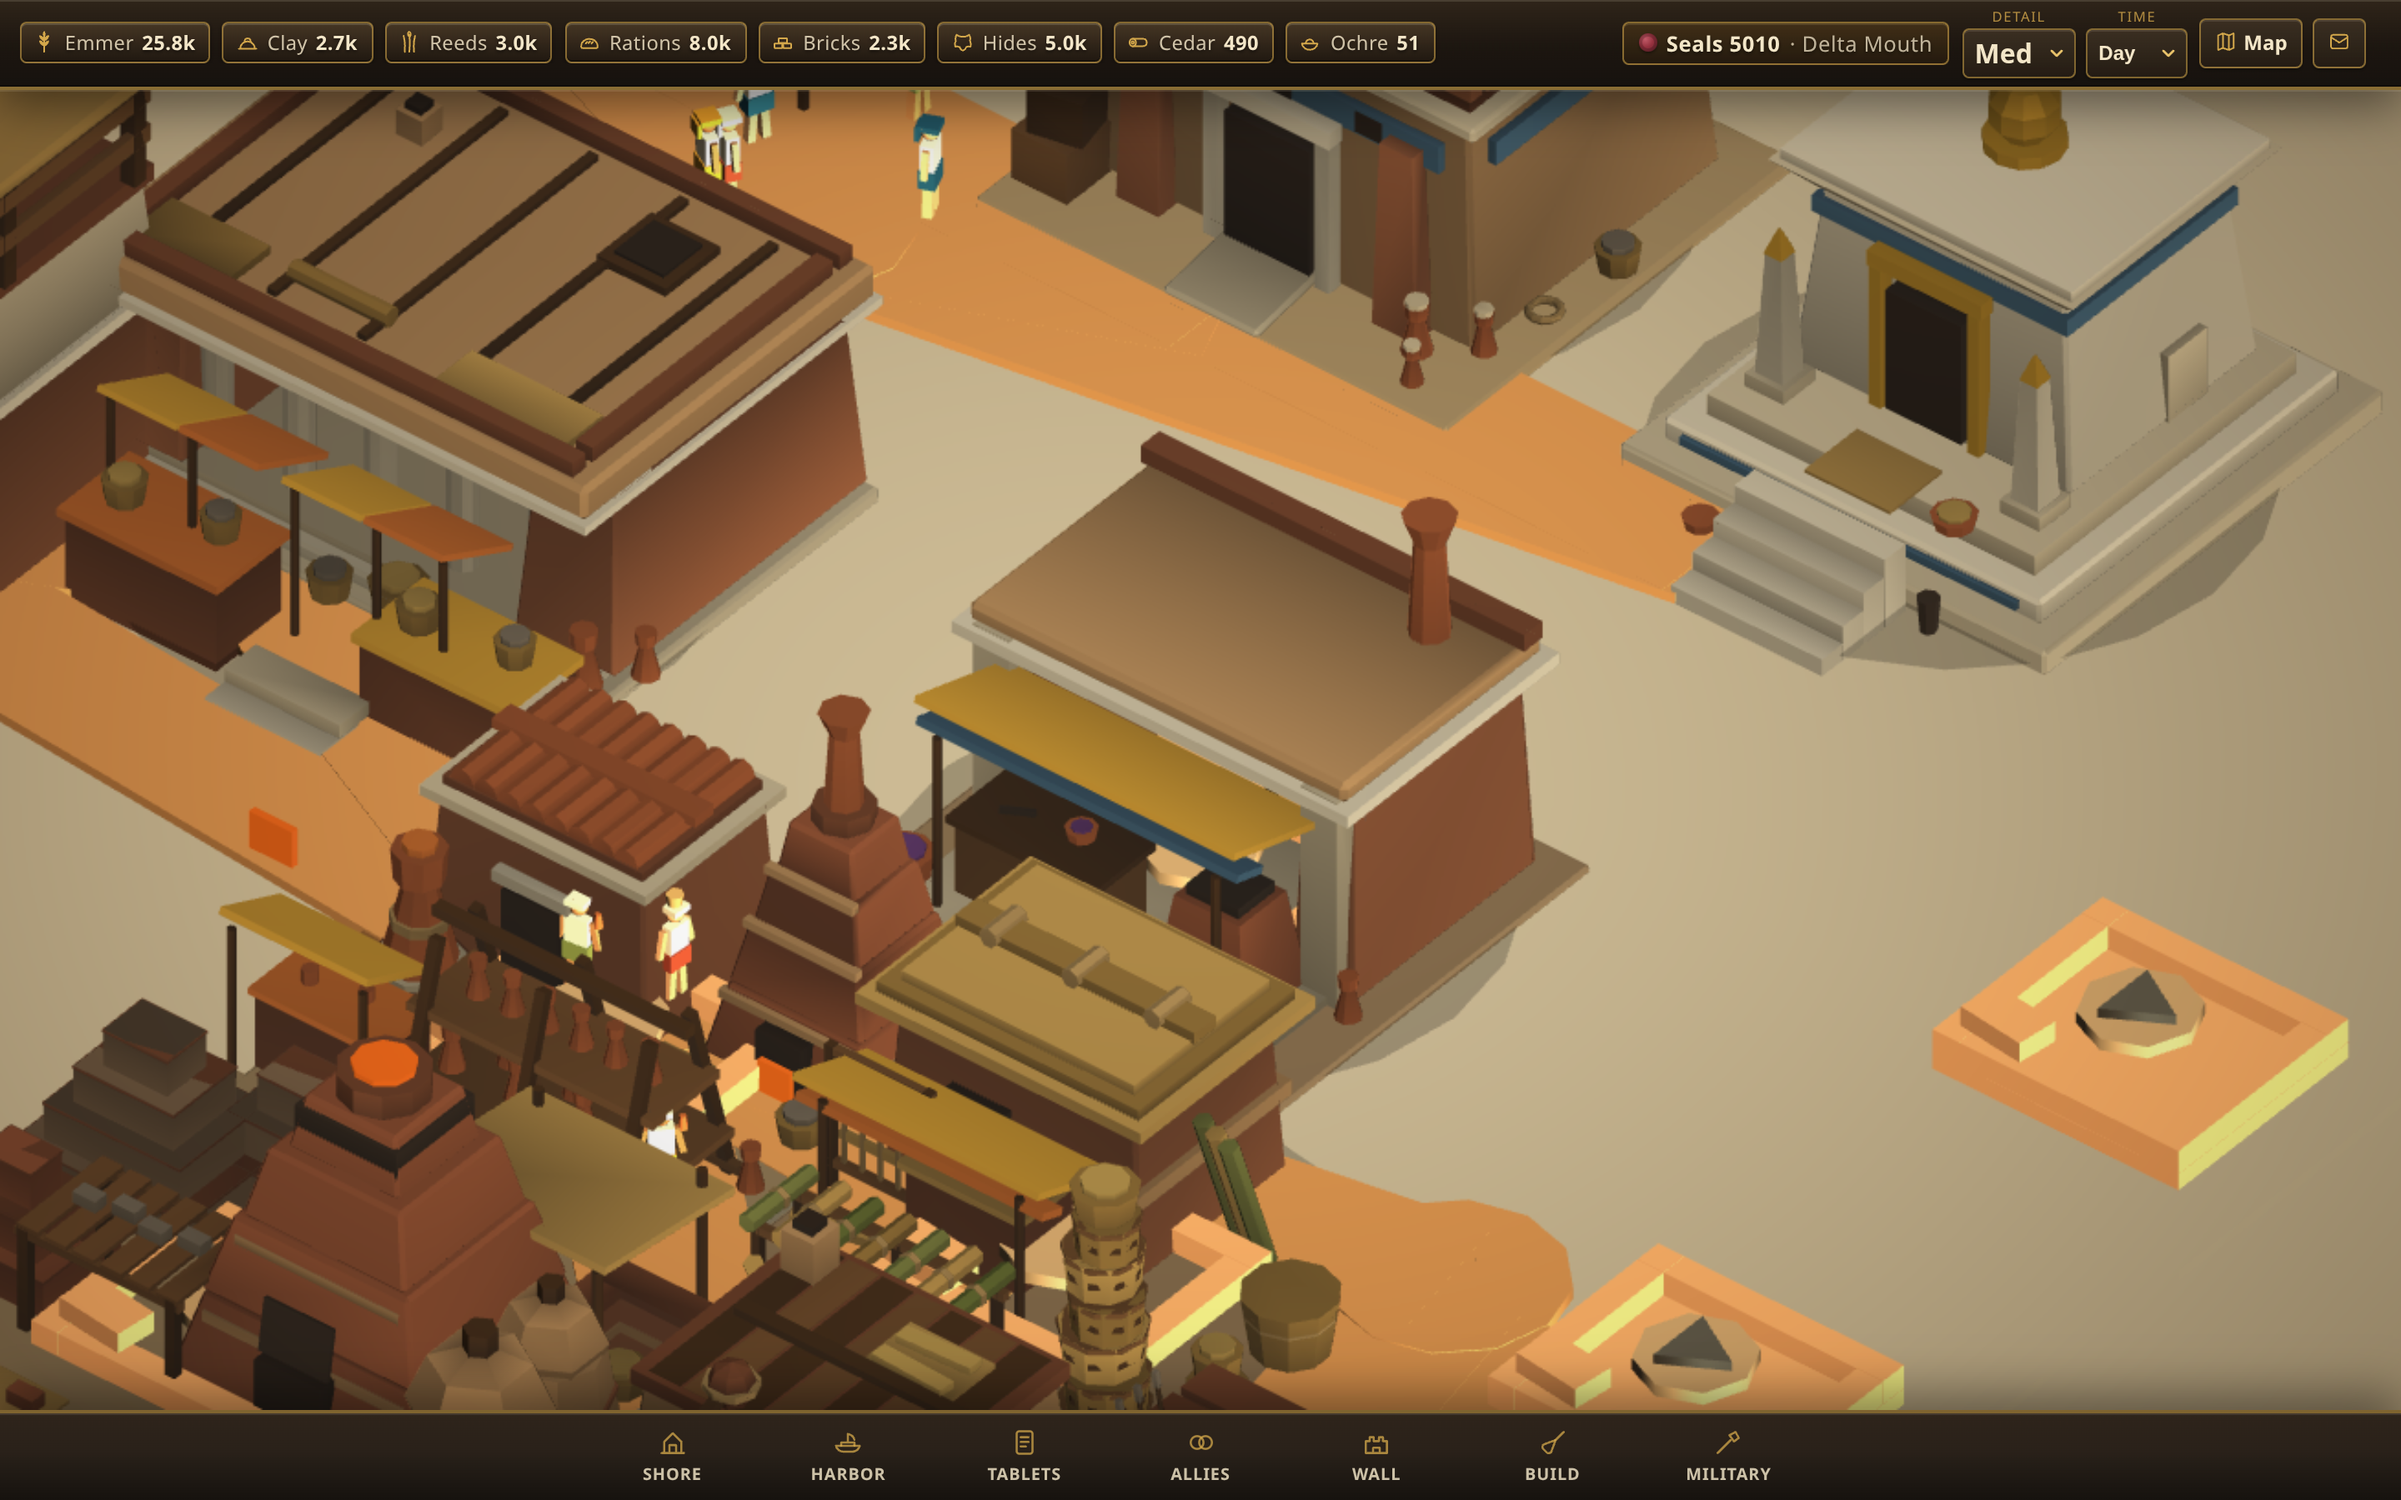
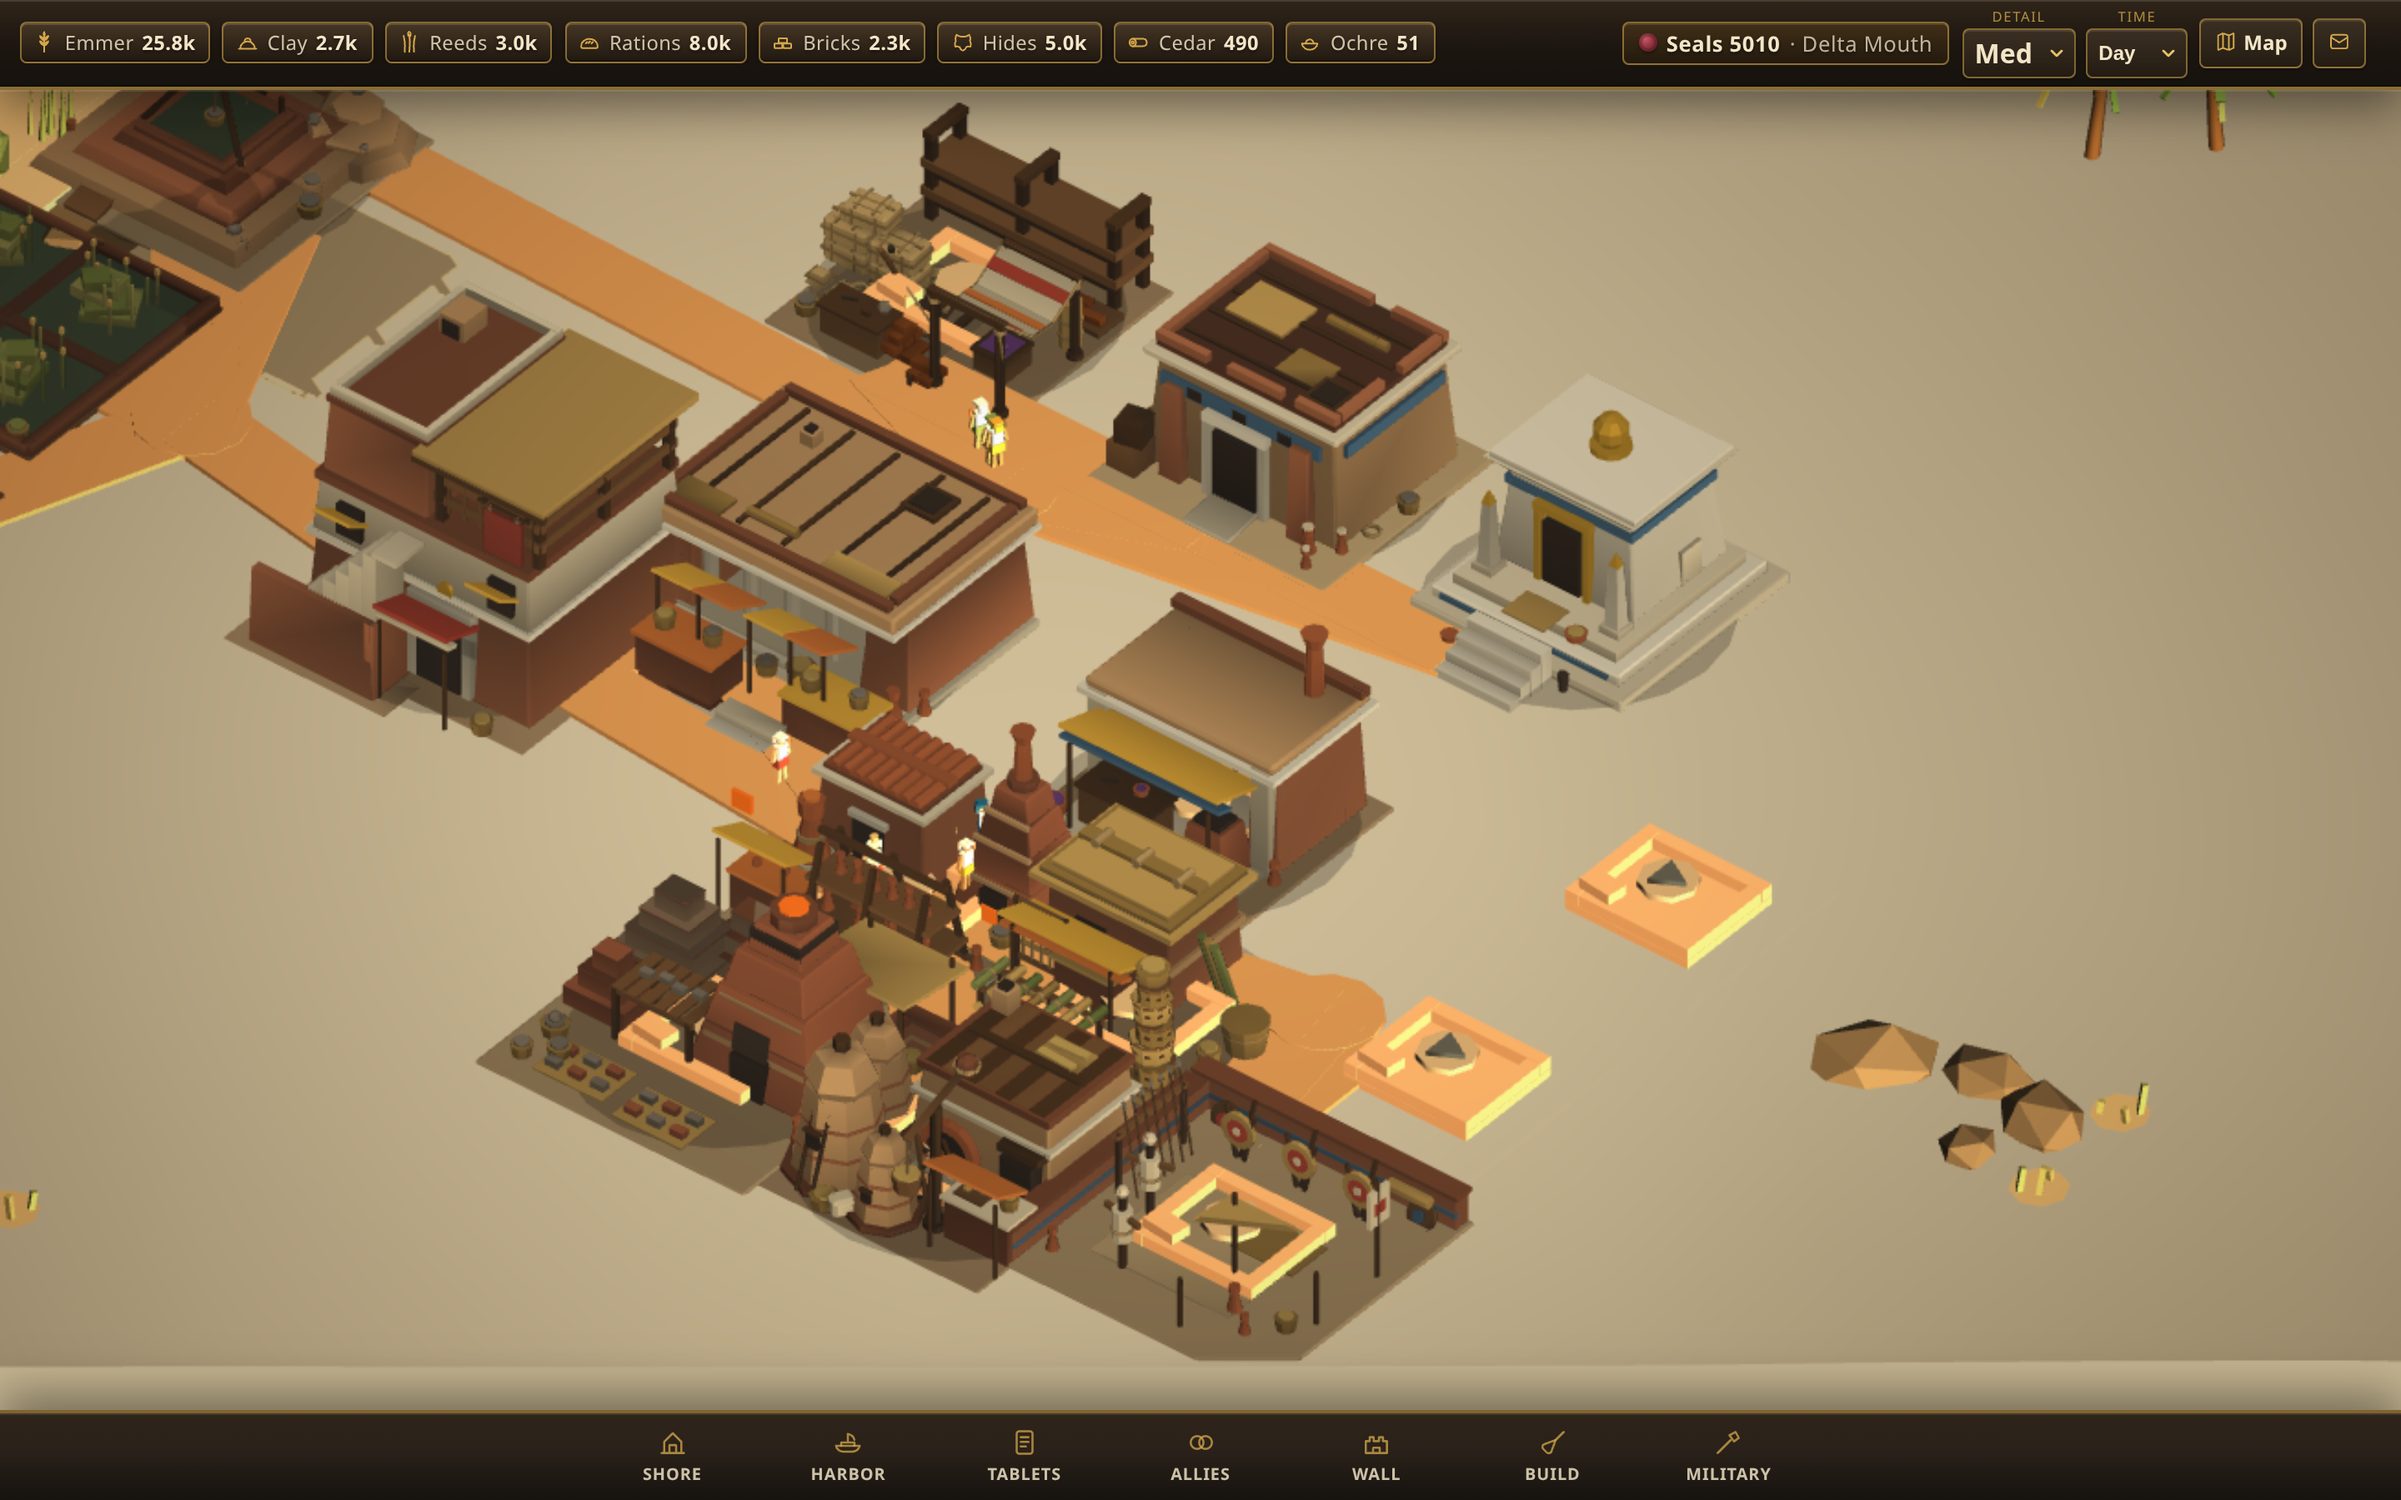
feat(overhaul-r12): board framing cuts the empty desert (owner directive)
Owner: 'the map has too much empty space... cut out 80% of the empty desert
around the settlement'. Board camera 30 -> 24 and recentred on the built
area, so the frame is settlement + the river edge + a thin desert margin.
This is also the judges' top repeated deduction (45% of frame dead space,
depth/staging 5.0-6.3).

setOrtho is now aspect-aware: portrait widens the frustum to a minimum
half-width so phones still fit the whole shore instead of cropping it.

Horizon dunes faceted (CreatePolyhedron) and pushed well outside the tighter
frame — as smooth spheres inside it they read as blurred decals pasted behind
a flat-shaded world.

diff --git a/apps/client/src/render/scene.ts b/apps/client/src/render/scene.ts
@@ -514,7 +514,11 @@ export class SettlementView {
   private setOrtho(radius: number) {
     const aspect =
       this.engine.getRenderWidth() / Math.max(1, this.engine.getRenderHeight());
-    const h = radius * 0.45;
+    let h = radius * 0.45;
+    // Portrait/narrow: widen the frustum so the settlement still fits on a
+    // phone (a width-derived frame at this radius would crop the shore).
+    const MIN_HALF_WIDTH = 11.5;
+    if (h * aspect < MIN_HALF_WIDTH) h = MIN_HALF_WIDTH / aspect;
     this.camera.orthoLeft = -h * aspect;
     this.camera.orthoRight = h * aspect;
     this.camera.orthoTop = h;
@@ -737,16 +741,19 @@ export class SettlementView {
     const ridgeFarMat = new StandardMaterial("horizonRidgeFarMat", this.scene);
     ridgeFarMat.diffuseColor = hexToColor3("#9A8A70");
     ridgeFarMat.specularColor = Color3.Black();
+    // Far enough out that the tightened board frame never shows them whole —
+    // and faceted, because smooth spheres read as blurred decals pasted
+    // behind a flat-shaded world (judge R11).
     const ridgeSpecs: Array<[number, number, number, number, boolean]> = [
-      [26, -16, 22, 2.6, false], [30, 4, 24, 3.0, false],
-      [25, 21, 20, 2.4, false], [10, -24, 20, 2.4, false],
-      [-6, 26, 22, 2.6, false], [44, -6, 30, 4.4, true],
-      [40, 26, 26, 3.6, true], [-22, -30, 22, 3.0, true],
+      [46, -26, 30, 3.6, false], [52, 6, 34, 4.2, false],
+      [44, 34, 28, 3.4, false], [16, -44, 28, 3.4, false],
+      [-14, 46, 30, 3.6, false], [70, -8, 36, 5.4, true],
+      [60, 40, 30, 4.4, true], [-34, -46, 28, 4.0, true],
     ];
     for (const [rx, rz, rlen, rh, far] of ridgeSpecs) {
-      const ridge = MeshBuilder.CreateSphere(
+      const ridge = MeshBuilder.CreatePolyhedron(
         `horizonRidge-${rx}-${rz}`,
-        { diameter: 2, segments: 9 },
+        { type: 3, size: 1 },
         this.scene
       );
       ridge.scaling.set(rlen / 2, rh * 0.5, rlen / 4.5);

diff --git a/apps/client/src/render/moneyShot.ts b/apps/client/src/render/moneyShot.ts
@@ -23,10 +23,12 @@ export function applyStandardBoardCamera(camera: ArcRotateCamera) {
   camera.beta = 0.78; // more top-down than mid-iso money-shot
   // Owner law (full-overhaul goal): board was too zoomed out at 48 —
   // settlement + river should FILL the frame. Still fixed: no wheel zoom.
-  camera.radius = 30;
-  camera.target.set(-1.8, 0, 2.4);
-  camera.lowerRadiusLimit = 30;
-  camera.upperRadiusLimit = 30;
+  // Owner law: the board was mostly empty desert. Frame = settlement + the
+  // river edge + a thin desert margin for context, nothing more.
+  camera.radius = 24;
+  camera.target.set(-0.6, 0, 2.9);
+  camera.lowerRadiusLimit = 24;
+  camera.upperRadiusLimit = 24;
   camera.lowerBetaLimit = 0.78;
   camera.upperBetaLimit = 0.78;
   camera.lowerAlphaLimit = camera.alpha;
